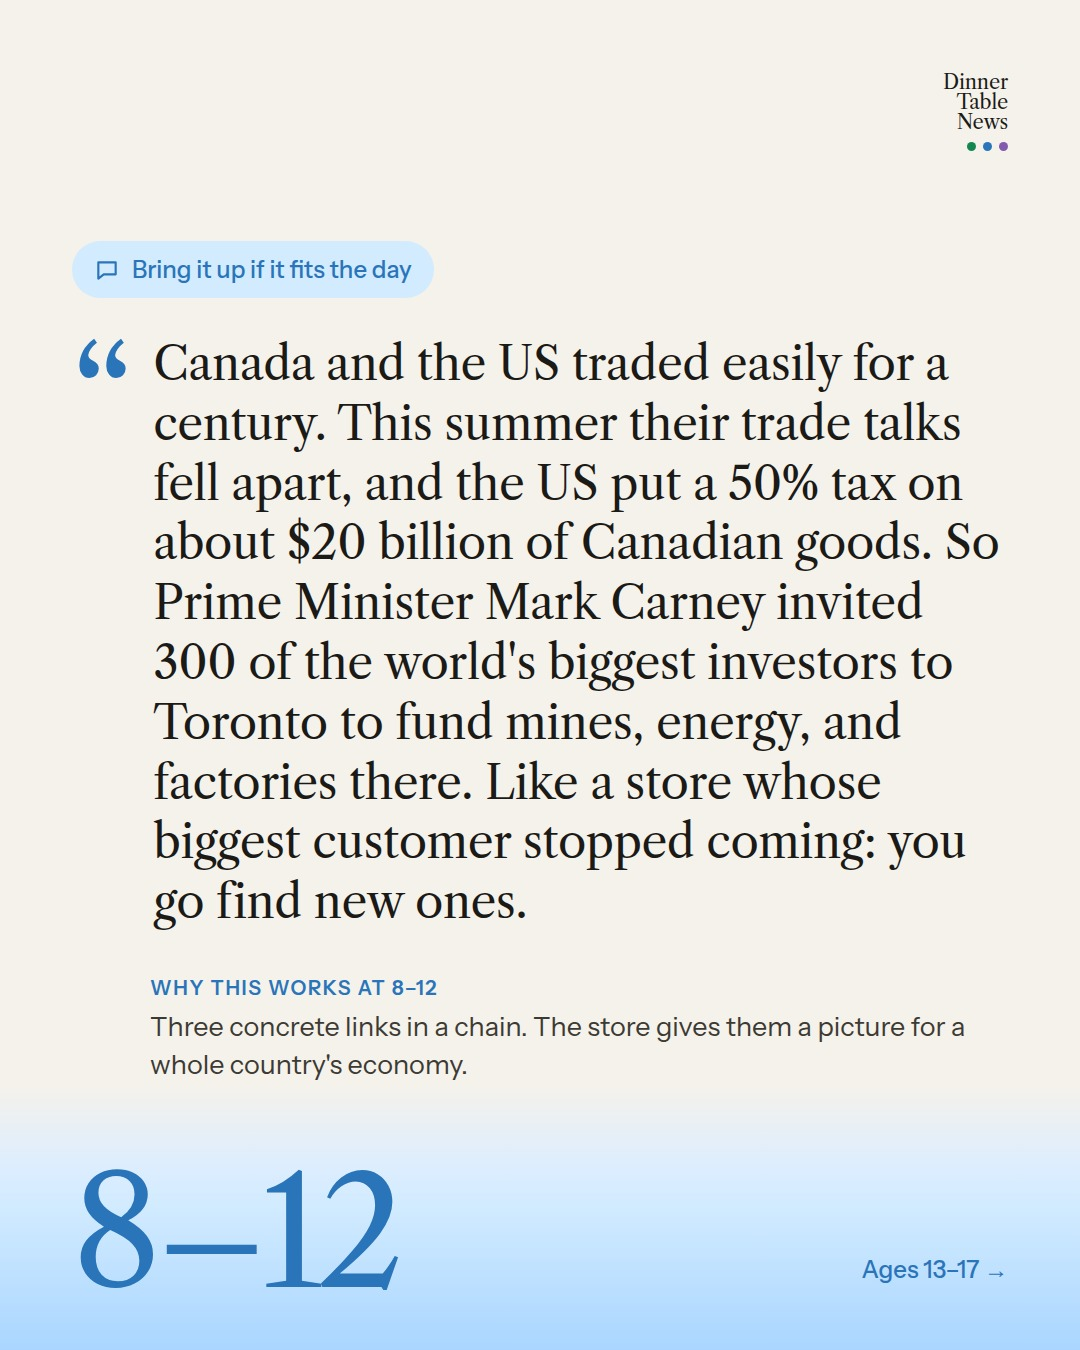
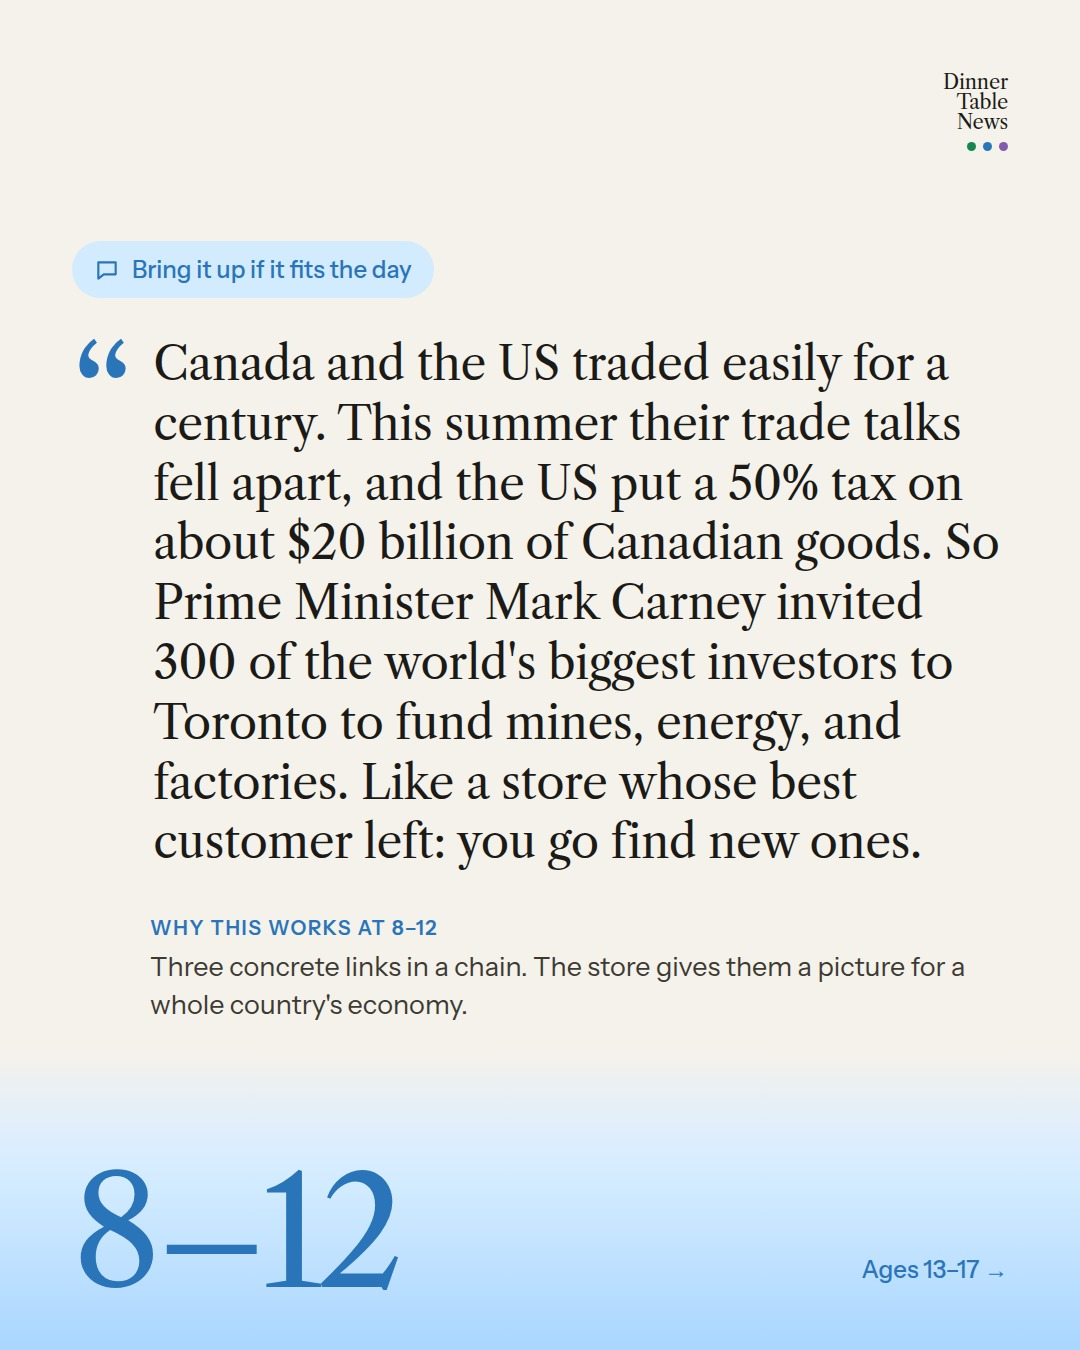
render.py: fail the render when text sits too close to the bottom; TASK.md §6 rule
Each text slide now has a #text block and a #floor element. After the screenshot,
render.py measures where the text ends and exits 1 with a TOO LOW line if it is
within the margin: one line above the 'Explain it to kids' row on the cover and
above the bottom margin on the questions slide, and above the 300px gradient band
on the age slides, which is a flex item that long text used to push off the frame.
Shortened the noon post's 8-12 and 13-17 scripts to pass the check.

Claude-Session: https://claude.ai/code/session_01W6uV2dYM57nYnRLynLYvMW

Changed region(s): [[0.1222, 0.56, 0.8861, 0.8089]]

diff --git a/render.py b/render.py
@@ -83,9 +83,9 @@ def cover(p):
   {disc}{hdr}
   <div style="position:relative;margin-top:500px;font-size:22px;font-weight:500;letter-spacing:0.08em;text-transform:uppercase;color:#A8A295">{p["category"]}</div>
   <h1 class="display" style="position:relative;margin:20px 0 0;font-weight:400;font-size:{p.get("headline_size", 92)}px;line-height:1.02;letter-spacing:-0.02em;text-wrap:pretty;max-width:900px">{p["headline"]}</h1>
-  <p style="position:relative;margin:36px 0 0;font-size:32px;line-height:1.4;color:#C9C3B5;text-wrap:pretty;max-width:840px">{p["summary"]} <span style="color:#A8A295">({p["outlet"]})</span></p>
+  <p id="text" style="position:relative;margin:36px 0 0;font-size:32px;line-height:1.4;color:#C9C3B5;text-wrap:pretty;max-width:840px">{p["summary"]} <span style="color:#A8A295">({p["outlet"]})</span></p>
   <div style="flex-grow:1"></div>
-  <div style="position:relative;display:flex;justify-content:flex-end;align-items:center;gap:14px;font-size:24px;font-weight:500"><span style="color:#C9C3B5;margin-right:4px">Explain it to kids ages</span>{ages}<span style="margin-left:6px">→</span></div>
+  <div id="floor" style="position:relative;display:flex;justify-content:flex-end;align-items:center;gap:14px;font-size:24px;font-weight:500"><span style="color:#C9C3B5;margin-right:4px">Explain it to kids ages</span>{ages}<span style="margin-left:6px">→</span></div>
 </div>''')
 
 
@@ -107,12 +107,12 @@ def age(p, band, nxt):
     <div class="serif" style="font-size:140px;line-height:0.6;color:{c};margin-top:30px">&ldquo;</div>
     <p class="serif" style="margin:0;font-size:{a.get("size", 46)}px;line-height:1.3;letter-spacing:-0.01em;text-wrap:pretty">{a["script"]}</p>
   </div>
-  <div style="margin-top:44px;padding-left:78px;display:flex;flex-direction:column;gap:8px;max-width:900px">
+  <div id="text" style="margin-top:44px;padding-left:78px;display:flex;flex-direction:column;gap:8px;max-width:900px">
     <div style="font-size:20px;font-weight:600;letter-spacing:0.08em;text-transform:uppercase;color:{c}">Why this works at {lab}</div>
     <div style="font-size:27px;line-height:1.4;color:{SOFT};text-wrap:pretty">{a["why"]}</div>
   </div>
   <div style="flex-grow:1"></div>
-  <div style="margin:0 -72px;height:300px;background:linear-gradient(180deg,{PAPER} 0%,{col(h,0.93,0.045)} 45%,{col(h,0.86,0.08)} 100%);display:flex;justify-content:space-between;align-items:flex-end;padding:0 72px 56px;box-sizing:border-box">
+  <div id="floor" style="margin:0 -72px;height:300px;background:linear-gradient(180deg,{PAPER} 0%,{col(h,0.93,0.045)} 45%,{col(h,0.86,0.08)} 100%);display:flex;justify-content:space-between;align-items:flex-end;padding:0 72px 56px;box-sizing:border-box">
     <div class="serif" style="font-size:150px;line-height:0.8;letter-spacing:-0.04em;color:{c}">{lab}</div>
     <div style="font-size:24px;font-weight:500;color:{c};padding-bottom:10px">{nxt}</div>
   </div>
@@ -130,7 +130,9 @@ def questions(p):
     return page(PAPER, INK, f'''<div style="width:1080px;height:1350px;box-sizing:border-box;padding:72px;background:{PAPER};display:flex;flex-direction:column;position:relative;overflow:hidden">
   {header(INK)}
   <h2 class="display" style="margin:70px 0 0;font-weight:400;font-size:68px;line-height:1.05;letter-spacing:-0.02em">Questions they might ask</h2>
-  <div style="margin-top:56px;display:flex;flex-direction:column;gap:44px">{group("5-7")}{group("8-12")}{group("13-17")}</div>
+  <div id="text" style="margin-top:56px;display:flex;flex-direction:column;gap:44px">{group("5-7")}{group("8-12")}{group("13-17")}</div>
+  <div style="flex-grow:1"></div>
+  <div id="floor" style="height:0"></div>
 </div>''')
 
 
@@ -146,11 +148,32 @@ def brand():
 </div>''')
 
 
+# Bottom margin rule. Every text slide has a #text block and a #floor element (the "Explain it to
+# kids" row on the cover, the 300px gradient band on the age slides, the page bottom on the questions
+# slide). The text must end at least FLOOR_GAP px above the floor's natural position. On the age slides
+# the band is a flex item, so long text pushes it down and off the frame instead of overlapping it,
+# which is why the check compares against where the floor belongs, not where it ended up.
+FLOOR_GAP = {"1-cover": 45, "2-ages-5-7": 0, "3-ages-8-12": 0, "4-ages-13-17": 0, "5-questions": 45}
+FLOOR_TOP = {"1-cover": 1350 - 72 - 29, "2-ages-5-7": 1050, "3-ages-8-12": 1050, "4-ages-13-17": 1050, "5-questions": 1350 - 72}
+LINE_PX = {"1-cover": 45, "2-ages-5-7": 60, "3-ages-8-12": 60, "4-ages-13-17": 60, "5-questions": 34}
+
+
+def check(pg, name):
+    """Return a message if the slide's text sits too low, else None."""
+    if name not in FLOOR_TOP: return None
+    bottom = pg.evaluate("Math.round(document.querySelector('#text').getBoundingClientRect().bottom)")
+    limit = FLOOR_TOP[name] - FLOOR_GAP[name]
+    if bottom <= limit: return None
+    over = bottom - limit
+    return (f"TOO LOW: {name}: text ends at {bottom}px, limit {limit}px, over by {over}px "
+            f"(about {-(-over // LINE_PX[name])} line(s) of the main text). Shorten and re-render.")
+
+
 def render(post, outdir):
     slides = [("1-cover", cover(post)), ("2-ages-5-7", age(post, "5-7", "Ages 8–12 →")),
               ("3-ages-8-12", age(post, "8-12", "Ages 13–17 →")), ("4-ages-13-17", age(post, "13-17", "Questions they might ask →")),
               ("5-questions", questions(post)), ("6-brand", brand())]
-    os.makedirs(outdir, exist_ok=True)
+    os.makedirs(outdir, exist_ok=True); problems = []
     with sync_playwright() as pw:
         try:
             b = pw.chromium.launch()
@@ -162,10 +185,15 @@ def render(post, outdir):
         for name, html in slides:
             pg.set_content(html); pg.wait_for_timeout(150)
             pg.screenshot(path=os.path.join(outdir, f"{name}.jpg"), type="jpeg", quality=92)
+            msg = check(pg, name)
+            if msg: problems.append(msg)
         b.close()
-    return [os.path.join(outdir, f"{n}.jpg") for n, _ in slides]
+    return [os.path.join(outdir, f"{n}.jpg") for n, _ in slides], problems
 
 
 if __name__ == "__main__":
     post = json.load(open(sys.argv[1]))
-    for f in render(post, sys.argv[2]): print(f)
+    files, problems = render(post, sys.argv[2])
+    for f in files: print(f)
+    for m in problems: print(m, file=sys.stderr)
+    sys.exit(1 if problems else 0)

diff --git a/TASK.md b/TASK.md
@@ -44,7 +44,8 @@ Same schema as `posts/2026-09-13-morning/post.json`. Voice and rules:
 
 ## 6. Render and push
 - `python render.py posts/<slug>/post.json posts/<slug>/`
-- Look at the six JPGs (Read them). Fix anything that overflows or wraps badly by shortening text, then re-render. Headline must not exceed three lines; scripts must not run into the gradient.
+- `render.py` measures every text slide and exits non-zero with a `TOO LOW:` line naming the slide and how many lines to cut when text sits too close to the bottom (cover summary and questions: at least one line of clear space above the "Explain it to kids" row / the bottom margin; age slides: the script and "why" must end above the 300px gradient band, which must never be pushed down). Shorten the text it names and re-render until it exits 0. Never commit or publish a post whose render fails this check, and never work around it by changing sizes or the check itself.
+- Look at the six JPGs (Read them). Fix anything that overflows or wraps badly by shortening text, then re-render. Headline must not exceed three lines. Count lines in the image before telling Dan how many there are.
 - Append an entry to `data/log.json`. Commit `posts/<slug>/` and `data/log.json`, push to `main`.
 - Write a two-line summary for the notification: the headline and the slot time. It reaches Dan's phone when this run finishes.
 
